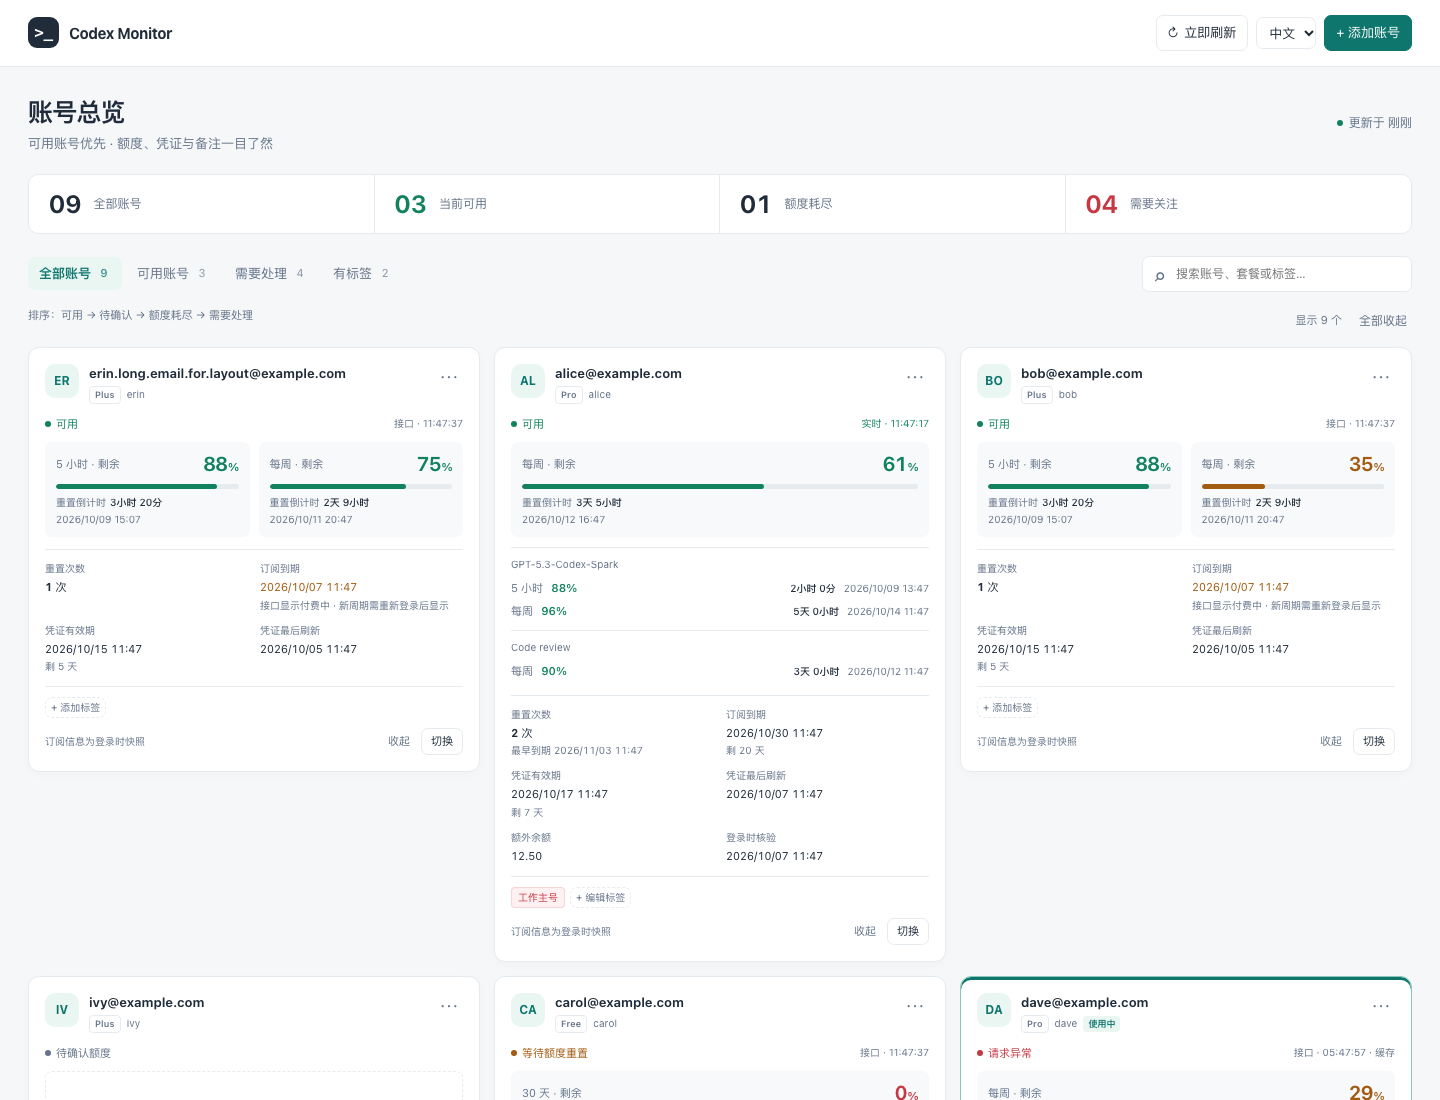
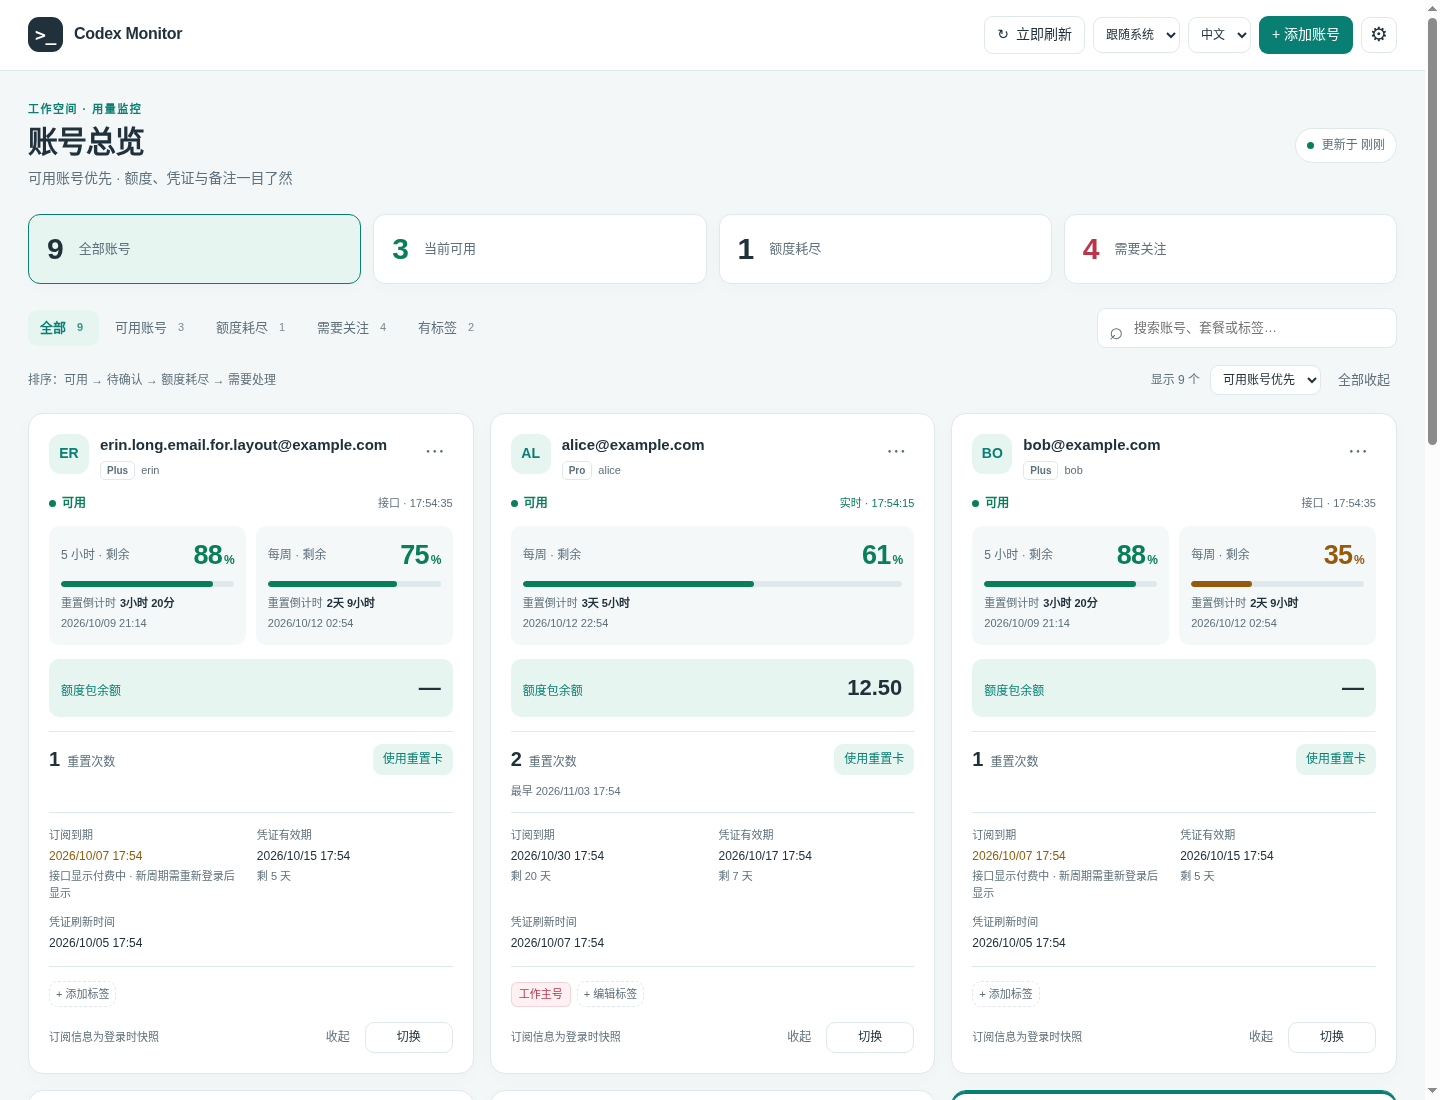
[docs/docs]: document dashboard controls and recovery
Describe reset-card recovery, credential refresh boundaries and credit balance behavior in both languages. Update the packaged-asset layout, test commands and dashboard examples.

Validation: Markdown fences, referenced test paths and staged whitespace checked; documentation and demo screenshots match the previously reviewed version.

diff --git a/README.md b/README.md
@@ -50,6 +50,8 @@ Codex Monitor solves all three: a read-only widget that shows every account's qu
 - **Real-time** — the panel tails Codex session rollouts and updates within a second of each model response; the usage API (30 s by default) is the fallback and calibration.
 - **Collapsible** (widget): full panel → the active account as a card and the others as one-line rows (or all expanded) → a 46-px vertical strip pinned to the screen edge. Non-activating floating panel (clicking it never steals focus), draggable, remembers position, three window levels, starts at login via a LaunchAgent.
 - **Dashboard** (any OS): the same cards in a local web page, bilingual, `--app` opens it as a chromeless window; starts at login via `codex-monitor autostart install`.
+- **Use reset cards** (web dashboard): click **Use reset card** beside an account's reset-credit count and confirm. The action consumes one applicable card, then refreshes the quota and count. Expired credentials must be renewed first. An uncertain timeout offers **Check reset result**, including after a page reload, to retry the same operation without requesting another card.
+- **Web controls**: larger quota and status cards, a dedicated reset-card action, light/dark/system themes, status filters and sorting with saved preferences. Press `/` to search and `Esc` to close dialogs. Connection loss keeps the last received data visible with a retry action. **Credit balance** stays visible when a card is collapsed; zero, unlimited and unreported (`—`) values are distinct.
 - One-click **switch** between accounts, **copy / export** any account's `auth.json`, **re-login** an account whose session was revoked. When switching away from an unarchived current login, the app automatically saves it as a profile and keeps a backup.
 
 **Multi-account**
@@ -57,7 +59,7 @@ Codex Monitor solves all three: a read-only widget that shows every account's qu
 - **Add accounts from the GUI**: an OAuth (authorization code + PKCE) login that opens the authorize page in a *private* browser window, so the account you are already logged into in your browser is never picked by mistake. No ChatGPT setting needs to be enabled.
 - Device-code login as a fallback (for remote / headless use).
 - Every account lives in its own `~/.codex-accounts/<name>/` directory, which doubles as an isolated `CODEX_HOME`. Switching copies one file; `codex-monitor run <name>` runs Codex with a different account in parallel without switching at all.
-- Refreshed tokens are synced back: when Codex rewrites `~/.codex/auth.json`, the stored copy of that account is updated, so your archive never holds a stale refresh token.
+- Refreshed tokens are synced back to matching saved copies. If the same account has several independent sessions and the source cannot be identified, Python account synchronization preserves those files; re-login to the intended profile to update it.
 
 **Web dashboard + CLI (`codex-monitor`)** — the same panel as a local web page for macOS / Linux / Windows, plus `add`, `relogin`, `import`, `save`, `list`, `status`, `use`, `run`, `env`, `export`, `sync`, `refresh`, `rename`, `remove`, `serve`, `autostart`. Python 3.8+, standard library only; `codex-acct` is an alias.
 
@@ -183,7 +185,7 @@ codex-monitor autostart install   # start it at login: LaunchAgent / systemd use
 
 The dashboard shows what `~/.codex/auth.json` is logged in as. **Add account** → name it → **Open in … private window** → sign in with the other ChatGPT account → the page redirects to `localhost:1455` and the new account appears. Everything else (switch, copy/export `auth.json`, re-login) is a button on the card.
 
-Accounts with remaining quota, valid credentials and no request error appear first, followed by unconfirmed, exhausted and invalid accounts. An invalid current login does not take the first position. Within each availability group, the current account comes first, then accounts with more remaining quota. The responsive grid shows 2–4 columns on desktop and one on small screens. Cards include all quota windows and additional limits, reset countdowns and dates, reset credits and their expiry, credit balance when supplied, subscription snapshots, credential expiry and last refresh. Status filters, search and dark mode are included.
+Accounts with remaining quota, valid credentials and no request error appear first, followed by unconfirmed, exhausted and invalid accounts. An invalid current login does not take the first position. Within each availability group, the current account comes first, then accounts with more remaining quota. The responsive grid shows 2–4 columns on desktop and one on small screens. Cards include the standard quota windows, reset countdowns and dates, reset cards and their expiry, credit balance when supplied, subscription snapshots, credential expiry and last refresh. Additional feature-specific quotas remain available through the CLI and native widget. Status filters, search and dark mode are included.
 
 **Custom red tags (native widget and web dashboard):** click **Add tag / Edit tags** at the bottom of any account card, or click an existing red tag. Type a new tag and press Enter or **Add tag**. Edit existing text directly; delete with the trash button in the native editor or `×` on the web, then **Save**. Each account allows up to 8 tags of 30 characters each; web search also matches tags. Optionally mark an account unavailable: the web puts it at the end and the native widget puts it behind the other accounts, while keeping the active account pinned. Uncheck and save to restore sorting. Tag text alone does not change availability.
 
@@ -333,6 +335,7 @@ Layout:
 | `auth.json` (JWT claims) | email, plan, account id, **subscription period as checked at login** (`chatgpt_subscription_last_checked`), access-token lifetime | on change (polled every 10 s) |
 | `GET {chatgpt_base_url}/wham/usage` | rate-limit windows, per-model limits, credits, reset-credit count | every 30 s (configurable 15 s – 5 min) |
 | `GET …/wham/rate-limit-reset-credits` | reset coupons and their expiry | every 3 min |
+| `POST …/wham/rate-limit-reset-credits/consume` | use one banked reset card | only after confirming the account-card action |
 | `~/.codex/sessions/**/rollout-*.jsonl` (`token_count` events) | **real-time** rate limits after every model response of CLI / `codex exec` sessions — identical to what the Codex app shows | tailed every 1 s (only bytes appended to files modified in the last 15 min; every day directory is walked every 10 s because long-lived threads sit under their creation date) |
 | `$CODEX_HOME/logs_*.sqlite` rows `account/rateLimits/updated` | **trigger** for desktop-app usage: those threads no longer write rollouts, but the app-server logs one row per rate-limit update, so the usage API is fetched immediately | checked every 1 s (indexed query, ~20 ms) |
 
@@ -346,7 +349,7 @@ Codex Monitor does not refresh tokens on a schedule and never rewrites a *workin
 
 - user actions: *Switch*, *Save as account*, *Refresh token…*, *Re-login…*;
 - the one-way "adopt" copy that mirrors a `~/.codex/auth.json` Codex itself just refreshed into the matching account directory (no network involved);
-- **automatic refresh after a 401**: when the server rejects an access token (or it has expired), the refresh token is exchanged **once per account per 10 minutes** and the fetch is retried — exactly what Codex does on a 401. A rejected token is already dead everywhere, so this cannot break a copy on another machine; without it a revoked session would keep showing stale numbers forever (the plan badge stuck on an old value, for example). Disable with the widget's *401 时自动刷新* toggle, `codex-monitor serve --no-auto-refresh`, or `CODEX_MONITOR_NO_AUTO_REFRESH=1`. If the refresh itself fails the card says the session was revoked and offers *Re-login*.
+- **automatic refresh after a 401**: when the server rejects an access token (or it has expired), the refresh token is exchanged **once per account per 10 minutes** and the fetch is retried — exactly what Codex does on a 401. Refresh-token rotation may invalidate untouched copies on other machines; matching local session copies are synchronized. Without automatic refresh, a revoked session would keep showing stale numbers forever (the plan badge stuck on an old value, for example). Disable with the widget's *401 时自动刷新* toggle, `codex-monitor serve --no-auto-refresh`, or `CODEX_MONITOR_NO_AUTO_REFRESH=1`. If the refresh itself fails the card says the session was revoked and offers *Re-login*.
 
 **Two implementations, one behaviour.** The Swift widget and the Python package implement the same store layout, the same API calls, the same rollout tailing and the same OAuth flow; both are covered by the tests in `tests/`. Proxies: the Python side honours `HTTPS_PROXY`/`HTTP_PROXY`, the macOS system proxy (`scutil --proxy`) and the Windows registry proxy; the widget uses the system proxy through URLSession.
 
@@ -365,7 +368,8 @@ Browser mode reproduces Codex CLI's own OAuth client: same `client_id`, `redirec
 
 ```
 codex_monitor/          Python package (stdlib only, 3.8+): store, usage API + rollout tailer, OAuth, web dashboard, autostart
-  web.py / web_i18n.py  the dashboard (single HTML page, EN + 中文)
+  web.py / web_i18n.py  HTTP routes and EN + 中文 strings
+  web_static/           packaged HTML, CSS and JavaScript (served inline, no CDN)
 bin/codex-monitor       run the CLI straight from a checkout (bin/codex-acct is the same thing)
 Sources/CodexMonitor/   Swift (SwiftUI + AppKit) native widget; Strings*.swift hold all its text
 scripts/build.sh        swiftc build + ad-hoc codesign;  scripts/install.sh / uninstall.sh
@@ -376,6 +380,10 @@ tests/test_removal.py   alias deletion/recovery, stale selection/path protection
 tests/test_rename.py    rename persistence, credentials/tags/history preservation, collisions, rollback, Unicode export and authenticated API
 tests/check_web_ui.mjs  real Chrome layout, light/dark, EN/ZH, tag editing/search (Node 24, no npm dependencies)
 tests/linux_smoke.sh    Linux installer, installed dashboard restart/tag persistence and autostart checks
+tests/test_reset_credits.py  reset-card HTTP contract, confirmation, replay/concurrency guards and quota refresh (fabricated responses)
+tests/test_web_regressions.py  import validation, refresh identity/concurrency guards, login finalization, alias updates, OAuth escaping and credential cache headers
+tests/test_recovery.py     cancelled/staged login integrity, ordered quota commits, alias token sync, malformed responses and durable reset recovery
+tests/test_web_ui.cjs   optional Playwright browser checks: menu visibility, expired credentials and re-login recovery
 tests/run_store_tests.sh  Swift tests (macOS)
 tests/run_annotations_tests.sh  native tag validation, Swift/Python interoperability and concurrent saves (macOS)
 ```
@@ -383,6 +391,10 @@ tests/run_annotations_tests.sh  native tag validation, Swift/Python interoperabi
 ```bash
 python3 tests/test_python.py && python3 tests/test_cli.py && python3 tests/test_dashboard.py && python3 tests/test_removal.py && python3 tests/test_rename.py
 node tests/check_web_ui.mjs                                        # Node 24 + Chrome; override with CHROME_BIN
+python3 tests/test_web_regressions.py
+python3 tests/test_reset_credits.py                                  # no real reset cards consumed
+python3 tests/test_recovery.py
+node tests/test_web_ui.cjs                                           # requires Playwright + Chromium; optional PLAYWRIGHT_MODULE=/path/to/playwright-core
 bash tests/run_account_order_tests.sh                                  # account ordering
 ./tests/run_store_tests.sh                                             # macOS, Swift side
 bash tests/run_annotations_tests.sh                                    # macOS, shared tags and concurrent saves
@@ -396,11 +408,13 @@ The Swift build happens in `~/Library/Caches/CodexMonitor/build` because iCloud-
 
 ## 9. ❓ FAQ
 
-**A card shows an old plan / old numbers.** The account's token was probably rejected (401) and, if automatic refresh is off or the refresh token was revoked too, no fresh data can arrive; the yellow dot and the "cached data" note say so. Turn automatic refresh on, or use *Re-login…* on that account.
+**Reset-card recovery:** pending operation IDs and confirmed results are stored separately from credentials in `~/.codex-accounts/_reset_requests/` (under `CODEX_ACCOUNTS_DIR` when set). After a timeout, restart or opening another tab, use **Check reset result** to retry the same operation. An unresolved request blocks a new spend for that account. Do not delete recovery records while an outcome is unknown.
+
+**A card shows an old plan / old numbers.** The account's token was probably rejected (401) and, if automatic refresh is off or the refresh token was revoked too, no fresh data can arrive; the yellow dot and the "cached data" note say so. Expired accounts show **Refresh token** and **Re-login…** buttons directly on the web card; both actions are also in its ⋯ account menu. If token refresh fails, the dialog offers re-login using the browser or a fresh `auth.json`.
 
 **The subscription date does not match what I just bought.** That field is a *snapshot taken when the account logged in* (`chatgpt_subscription_last_checked` in the id_token). Token refreshes do not re-check it and no endpoint reachable with a Codex token returns the live billing period, so the card labels it "snapshot at login" and shows the check time. The *plan* badge is live from the usage API. Re-login the account to refresh the snapshot.
 
-**"Credential (auto-renews) until …" — is my account expiring?** No. Access tokens live 10 days and Codex (and the monitor, after a 401) renews them automatically; the line only tells you how old the current credential is. It turns red only if a token is actually expired and could not be renewed.
+**"Credential (auto-renews) until …" — is my account expiring?** This is the current access token's expiry, read from its signed payload. Codex and the monitor can renew it using a valid refresh token. OpenAI determines the expiry; importing or editing `auth.json` cannot extend it to one year. An expired or revoked refresh token requires re-login.
 
 **The device-code page says to enable device code authorization.** Enable it under ChatGPT → Settings → Security for that account, or simply use the default browser login.
 
